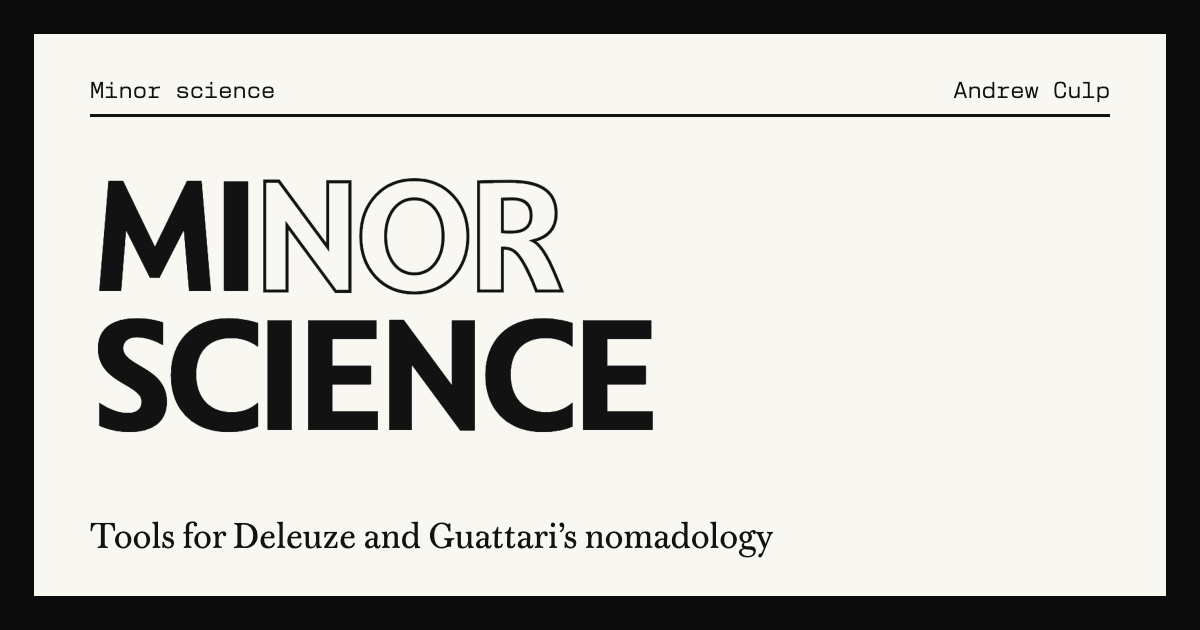
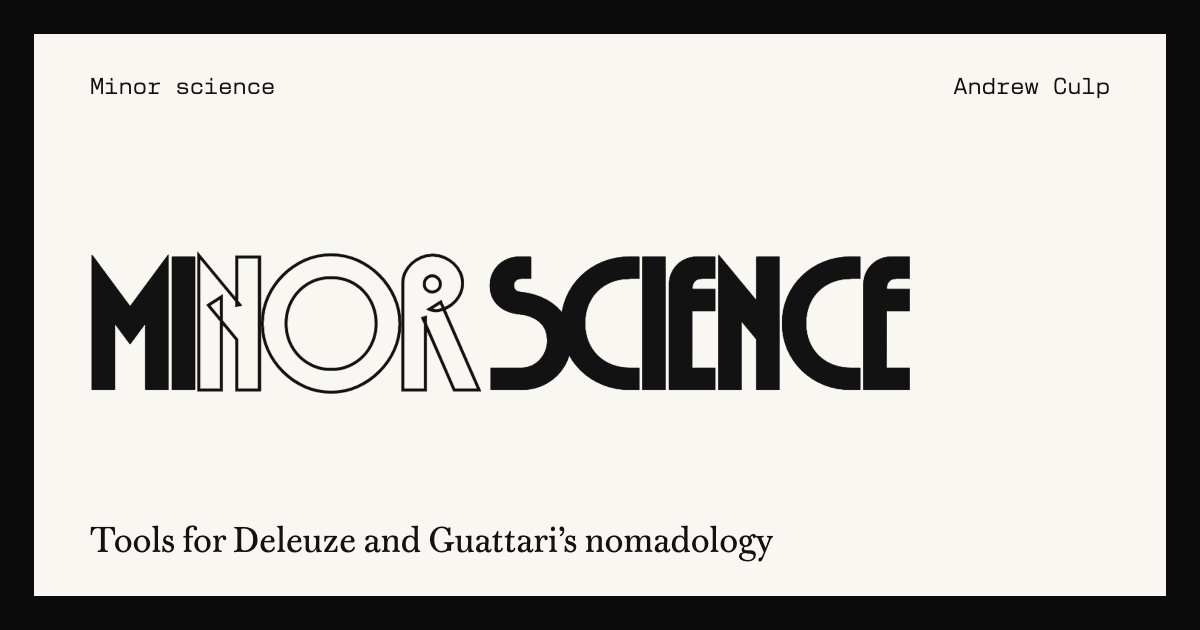
Title faces: Megascope for display, AT Kyrios for titles; share card to match

diff --git a/index.html b/index.html
@@ -136,7 +136,7 @@
 /* Copy paper on a black field, black and one red. Comma Sans titles, solid against outline;
    Warbler for reading, switching into New Science Mono mid-sentence, as in Levine's BookMarx. */
 :root{--field:#0b0b0b;--paper:#f8f7f2;--ink:#121212;--red:#c8361a;--grey:#55534e;--focus:#0047ff;
-  --grot:"comma-sans",Helvetica,Arial,sans-serif;--serif:"warbler-text",Georgia,serif;--mono:"new-science-mono",ui-monospace,monospace}
+  --disp:"megascope-variable","Arial Narrow",sans-serif;--head:"at-kyrios-display","Arial Narrow",serif;--serif:"warbler-text",Georgia,serif;--mono:"new-science-mono",ui-monospace,monospace}
 *{box-sizing:border-box}
 html{background:var(--field);font-synthesis:none}
 body{margin:0;background:var(--field);color:var(--ink);font:400 1.125rem/1.5 var(--serif);padding:clamp(12px,3vw,48px)}
@@ -150,7 +150,7 @@ a:focus-visible{outline:3px solid var(--focus);outline-offset:3px}
   display:grid;grid-template-columns:repeat(12,minmax(0,1fr));column-gap:clamp(.75rem,2vw,1.75rem)}
 .sheet>*{min-width:0}
 
-h1{grid-column:1/-1;margin:0;font:700 clamp(3.2rem,24.5vw,21.5rem)/.8 var(--grot);letter-spacing:-.045em;text-transform:uppercase;
+h1{grid-column:1/-1;margin:0;font:700 clamp(2.3rem,38.8vw,34.3rem)/.8 var(--disp);letter-spacing:-.02em;text-transform:uppercase;
   display:grid;grid-template-columns:auto 1fr;align-items:end;--sw:2.5px}
 h1 .a{grid-row:1/3;font-size:1.32em;line-height:.76}
 h1 .b{padding-left:.04em}
@@ -171,9 +171,9 @@ h1 .c{grid-column:1/-1}
 .fig img,.fig>svg{display:block;width:100%;height:auto}
 .fig img{mix-blend-mode:multiply}
 .num{position:absolute;top:-.32em;left:-.06em;z-index:2;pointer-events:none;
-  font:700 clamp(7rem,17vw,15rem)/1 var(--grot);letter-spacing:-.06em;color:transparent;-webkit-text-stroke:2.5px var(--ink)}
+  font:700 clamp(7rem,17vw,15rem)/1 var(--disp);letter-spacing:-.02em;color:transparent;-webkit-text-stroke:2.5px var(--ink)}
 .proj.flip .num{left:auto;right:-.02em}
-.txt h2{margin:0 0 1rem;font:700 clamp(2.3rem,4.4vw,3.9rem)/.9 var(--grot);letter-spacing:-.04em;--sw:1.6px}
+.txt h2{margin:0 0 1rem;font:700 clamp(2.6rem,5vw,4.4rem)/.88 var(--head);letter-spacing:0;--sw:1.6px}
 .txt h2 a{text-decoration:none}
 .txt h2 a:hover{text-decoration:underline;text-decoration-color:var(--red);text-decoration-thickness:4px}
 .txt p{margin:0}
@@ -261,7 +261,7 @@ footer .reading span{display:block;padding-left:1.25em;font-size:.9375rem}
 <p><i>Mille plateaux</i><span>Gilles Deleuze and Félix Guattari. Minuit, 1980</span></p>
 <p><i>Regimes of Violence: Toward a Political Anthropology</i><span>John Protevi. Minnesota, 2025</span></p></div>
 <div class="colophon"><h2>Colophon</h2>
-<p>Made by <a href="https://andrewculp.org/">Andrew Culp</a>, California Institute of the Arts. Typefaces include Warbler, Comma Sans and New Science Mono. Source code at <a href="https://github.com/minor-science">github.com/minor-science</a>.</p>
+<p>Made by <a href="https://andrewculp.org/">Andrew Culp</a>, California Institute of the Arts. Typefaces include Megascope, AT Kyrios, Warbler and New Science Mono. Source code at <a href="https://github.com/minor-science">github.com/minor-science</a>.</p>
 <p>Current project: <a href="https://www.instagram.com/an.archeology/">an.archeology</a></p></div>
 </footer>
 </div>
